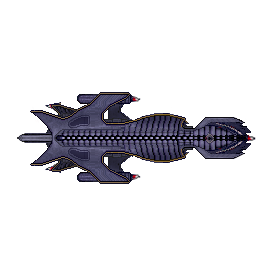
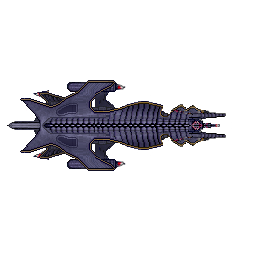
UrathKal img

Changed region(s): [[0.0312, 0.3125, 0.9062, 0.6875]]

diff --git a/source/server/model/ships/hyach/HyachUruthaKal.php b/source/server/model/ships/hyach/HyachUruthaKal.php
@@ -13,7 +13,7 @@ class HyachUruthaKal extends BaseShip{
         $this->limited = 33;
 
         $this->fighters = array("normal"=>12);
-		$this->canvasSize = 280;
+		$this->canvasSize = 256;
         $this->isd = 2207;
         
         $this->forwardDefense = 17;
